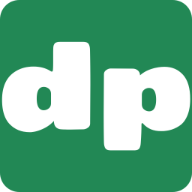
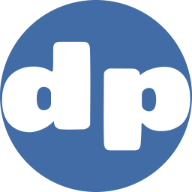
added blob

diff --git a/src/main/Main.tsx b/src/main/Main.tsx
@@ -2,6 +2,7 @@ import React from 'react';
 import s from './Main.module.css'
 import {FontAwesomeIcon} from "@fortawesome/react-fontawesome";
 import {faGithub, faLinkedin} from "@fortawesome/free-brands-svg-icons";
+import profilePictureRmBg from "./../assets/profile/profilePictureRmBg.png"
 
 export const Main = () => {
     return (
@@ -9,10 +10,10 @@ export const Main = () => {
             <div className={s.block1}>
                 <div className={s.links}>
                     <a target={'_blank'} href={'https://github.com/dspopravko'}>
-                    <FontAwesomeIcon size="2x" icon={faGithub} color={'#20ae44'} />
+                        <FontAwesomeIcon size="2x" icon={faGithub} color={'#20ae44'}/>
                     </a>
                     <a target={'_blank'} href={'https://www.linkedin.com/in/demid-popravko-2aa212239'}>
-                    <FontAwesomeIcon size="2x" icon={faLinkedin} color={'#20ae44'}/>
+                        <FontAwesomeIcon size="2x" icon={faLinkedin} color={'#20ae44'}/>
                     </a>
                 </div>
                 <div className={s.hello}>
@@ -21,7 +22,19 @@ export const Main = () => {
                     <button>Contact me</button>
                 </div>
             </div>
-            <div className={s.block2}>This is photo</div>
+            <div className={s.block2}>
+                <svg viewBox="0 0 200 200" xmlns="http://www.w3.org/2000/svg">
+                    <mask id="b">
+                        <path fill="rgba(255, 255, 255, 1)" d="M48.3,-53.7C64.2,-44.3,79.8,-30.5,83.6,-14C87.4,2.6,79.4,21.9,68.9,39.4C58.3,56.8,45.1,72.3,29.1,76.9C13,81.4,-6,75.1,-23,67.2C-40,59.3,-55.1,49.9,-65.3,35.9C-75.4,21.9,-80.8,3.4,-79.6,-15.9C-78.5,-35.3,-70.9,-55.3,-56.5,-65C-42.2,-74.7,-21.1,-74.1,-2.4,-71.2C16.2,-68.3,32.5,-63.1,48.3,-53.7Z" transform="translate(100 100)"
+                        />
+                    </mask>
+                    <g mask="url(#b)">
+                        <path fill="#416CA6" d="M48.3,-53.7C64.2,-44.3,79.8,-30.5,83.6,-14C87.4,2.6,79.4,21.9,68.9,39.4C58.3,56.8,45.1,72.3,29.1,76.9C13,81.4,-6,75.1,-23,67.2C-40,59.3,-55.1,49.9,-65.3,35.9C-75.4,21.9,-80.8,3.4,-79.6,-15.9C-78.5,-35.3,-70.9,-55.3,-56.5,-65C-42.2,-74.7,-21.1,-74.1,-2.4,-71.2C16.2,-68.3,32.5,-63.1,48.3,-53.7Z" transform="translate(100 100)" />
+                        <image x="10" y="15" className={s.profilePicture} xlinkHref={profilePictureRmBg}/>
+                    </g>
+                </svg>
+
+            </div>
         </div>
     )
 }

diff --git a/src/App.css b/src/App.css
@@ -7,15 +7,15 @@
     --light-gray-color: #efefef;
     --gray-color: #dad8d3;
     --gray-dark-color: #c7c7c7;
-    --green-color: #20ae44;
-    --green50-color: #009627;
-    --red-color: #ff6124;
+    --blue-color: #5095BF;
+    --dark-blue-color: #416CA6;
+    --red-color: #D98C5F;
     --yellow-color: #fae361;
     --bottom-shadow: 0 -1px 4px rgba(0, 0, 0, .35);
     --upper-shadow: 0 -4px 4px rgba(0, 0, 0, .04);
 
     /* App Theme */
-    --primary-color: var(--green-color);
+    --primary-color: var(--blue-color);
     --destructive-color: var(--red-color);
     --text-on-light-bg-color: var(--black-color);
     --text-on-dark-bg-color: var(--white-color)
@@ -32,7 +32,7 @@ html {
 
 .App {
     --bg-color: #fff;
-    --container-color: #f1f1f1;
+    --container-color: #f1f5f6;
     --text-color: #1e1e1e;
     display: flex;
     flex-direction: column;

diff --git a/src/main/Main.module.css b/src/main/Main.module.css
@@ -41,3 +41,14 @@
     gap: 20px;
     opacity: 0.8;
 }
+.blob {
+    width: 200px;
+    fill: var(--primary-color);
+}
+.profilePicture {
+    width: 170px;
+    transition: ease-in-out .6s;
+}
+.profilePicture:hover {
+    width: 172px;
+}
